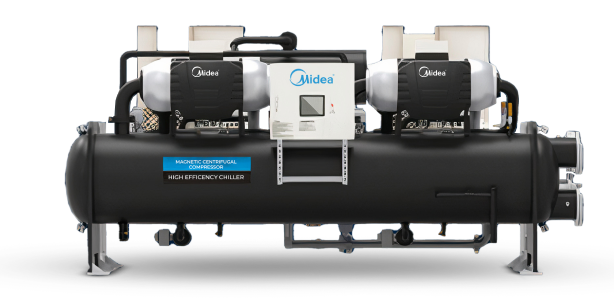
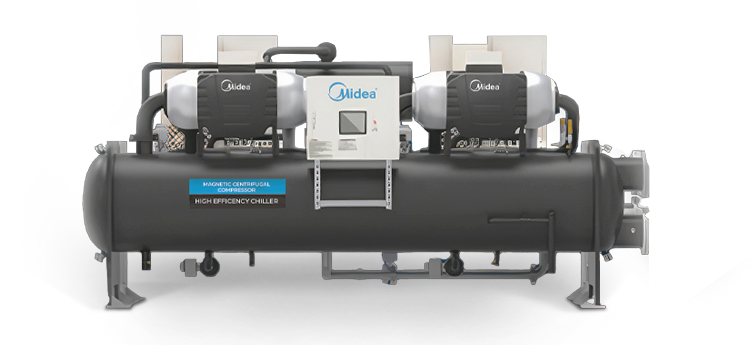
added shadow and new imges to mainpage

diff --git a/app/Innovation/Innovation.module.scss b/app/Innovation/Innovation.module.scss
@@ -5,6 +5,7 @@
    display: flex;
    flex-direction: column;
    position: relative;
+   z-index: 3;
    &__title {
       text-align: center;
       font-size: 36px;
@@ -154,10 +155,6 @@
    animation-duration: 6s;
    color: rgb(110, 0, 133);
    border-radius: 50%;
-   filter: drop-shadow(0px 1px 1px rgb(110, 0, 133))
-   drop-shadow(0px 1px 1px rgb(110, 0, 133))
-   drop-shadow(0px 4px 10px rgb(110, 0, 133))
-   drop-shadow(0px 4px 30px rgb(110, 0, 133))
 }
 .titles {
    position: fixed;
@@ -193,32 +190,28 @@
 }
 @keyframes neonGlow {
    0% {
-      filter: drop-shadow(0px 1px 1px rgb(110, 0, 133))
-   drop-shadow(0px 1px 1px rgb(110, 0, 133))
-   drop-shadow(0px 4px 10px rgb(110, 0, 133))
-   drop-shadow(0px 4px 30px rgb(110, 0, 133));
-   color: rgb(110, 0, 133);
+      filter: drop-shadow(0px 1px 1px rgb(0, 0, 0))
+   drop-shadow(0px 1px 1px rgb(0, 0, 0))
+   drop-shadow(0px 4px 10px rgb(0, 0, 0));
+   color: rgb(0, 0, 0);
    }
    33% {
-      filter: drop-shadow(0px 1px 1px rgb(24, 0, 133))
-      drop-shadow(0px 1px 1px rgb(24, 0, 133))
-      drop-shadow(0px 4px 10px rgb(24, 0, 133))
-      drop-shadow(0px 4px 30px rgb(24, 0, 133));
-      color: rgb(24, 0, 133);
+      filter: drop-shadow(0px 1px 1px rgb(255, 255, 255))
+      drop-shadow(0px 1px 1px rgb(255, 255, 255))
+      drop-shadow(0px 4px 10px rgb(255, 255, 255));
+      color: rgb(158, 158, 158);
    }
    66% {
-      filter: drop-shadow(0px 1px 1px rgb(0, 170, 182))
-      drop-shadow(0px 1px 1px rgb(0, 170, 182))
-      drop-shadow(0px 4px 10px rgb(0, 170, 182))
-      drop-shadow(0px 4px 30px rgb(0, 170, 182));
-      color: rgb(0, 170, 182);
+      filter: drop-shadow(0px 1px 1px rgb(0, 0, 0))
+      drop-shadow(0px 1px 1px rgb(0, 0, 0))
+      drop-shadow(0px 4px 10px rgb(0, 0, 0));
+      color: rgb(0, 0, 0);
    }
    100% {
-      filter: drop-shadow(0px 1px 1px rgb(110, 0, 133))
-      drop-shadow(0px 1px 1px rgb(110, 0, 133))
-      drop-shadow(0px 4px 10px rgb(110, 0, 133))
-      drop-shadow(0px 4px 30px rgb(110, 0, 133));
-      color: rgb(110, 0, 133);
+      filter: drop-shadow(0px 1px 1px rgb(255, 255, 255))
+      drop-shadow(0px 1px 1px rgb(255, 255, 255))
+      drop-shadow(0px 4px 10px rgb(255, 255, 255));
+      color: rgb(255, 255, 255);
    }
 }
 
@@ -254,7 +247,7 @@
 
 @keyframes changeColor {
    0% {
-      color: rgb(133, 28, 219);
+      color: rgb(0, 0, 0);
       opacity: 1;
    }
    100% {

diff --git a/app/Machines/Machines.tsx b/app/Machines/Machines.tsx
@@ -2,6 +2,8 @@ import styles from './Machines.module.scss';
 import magboost from '../../public/img/Innovation/magboost.png';
 import v8 from '../../public/img/Innovation/v8.png';
 import NewestMachines from './NewestMachines';
+import Image from 'next/image';
+import shadowbg from '../../public/img/Innovation/shadow_bg.jpg';
 
 const newestData = [{
    deviceName: 'Magboost',
@@ -12,13 +14,16 @@ const newestData = [{
 {
    deviceName: 'V8',
    image: v8,
-   imageWidth: 350,
-   imageHeight: 364
+   imageWidth: 700,
+   imageHeight: 504
 }]
 
 function Machines() {
 return (
    <section className={styles.machines}>
+      <div className={styles.machines__shadow}>
+         <Image src={shadowbg} alt='' fill={true}></Image>
+      </div>
       {newestData.map((el, idx) => {
          return <NewestMachines key={idx} deviceName={el.deviceName} image={el.image} imageWidth={el.imageWidth} imageHeight={el.imageHeight} />
       })}

diff --git a/app/Machines/NewestMachines.tsx b/app/Machines/NewestMachines.tsx
@@ -18,7 +18,7 @@ function NewestMachines({deviceName, image, imageWidth, imageHeight}: NewestMach
       <Link href='/VRF' className={`${deviceName === 'Magboost' ? styles.machines__newest1 : styles.machines__newest2} ${visibility ? styles.active : ''}`}>
          <p className={`${styles.machines__newest__title} ${deviceName === 'Magboost' ? styles.machines__newest__title1 : styles.machines__newest__title2} ${visibility ? styles.titleActive : ''}`}>{deviceName}</p>
          <div className={styles.machines__container}>
-            <Image src={image} alt='magboost' width={imageWidth} height={imageHeight} />
+            <Image className={styles.t} src={image} alt='magboost' width={imageWidth} height={imageHeight} />
          </div>
       </Link>
    )

diff --git a/app/Machines/Machines.module.scss b/app/Machines/Machines.module.scss
@@ -3,6 +3,15 @@
    padding: 10px;
    display: flex;
    justify-content: space-around;
+   position: relative;
+   &__shadow {
+      position: absolute;
+      left: 0;
+      top: 0;
+      width: 100%;
+      height: 100%;
+      object-fit: cover;
+   }
    &__newest1 {
       opacity: 0;
       transform: translateX(-90%);
@@ -26,6 +35,7 @@
       max-height: 450px;
       display: flex;
       justify-content: center;
+      align-items: center;
       margin: 30px 0 0 0;
       transition: 0.4s;
    }
@@ -78,4 +88,7 @@
    transition-delay: 0.4s;
    transform: translateX(0%);
    opacity: 1;
+}
+.t {
+   
 }

diff --git a/app/Innovation/Innovation.tsx b/app/Innovation/Innovation.tsx
@@ -1,7 +1,7 @@
 "use client"
 import styles from './Innovation.module.scss';
 import kuka from '../../public/img/Innovation/kuka.png';
-import lab from '../../public/img/Innovation/lab.png';
+import lab from '../../public/img/Innovation/lab_new.png';
 import Image from 'next/image';
 import { RootState } from '../Redux/store';
 import { useSelector } from 'react-redux';

diff --git a/app/VRF/VRFMainPage/VRFMain.tsx b/app/VRF/VRFMainPage/VRFMain.tsx
@@ -9,6 +9,9 @@ import { useEffect, useState } from 'react';
 
 
 function VRFMain() {
+   useEffect(() => {
+      window.scrollTo(0,0)
+   }, [])
    const [isView1, setIsView1] = useState(false)
    const [isView2, setIsView2] = useState(false)
    const imageTitleParams = [{

diff --git a/app/Awards/Awards.module.scss b/app/Awards/Awards.module.scss
@@ -1,7 +1,6 @@
 .awards {
-   max-width: 1580px;
-   margin: 200px auto 0 auto;
-   padding: 0 40px;
+   padding: 200px 40px 50px 40px;
+   background: rgb(254,255,250);
    &__title {
       text-align: center;
       font-size: 40px;

diff --git a/app/globals.css b/app/globals.css
@@ -37,7 +37,7 @@ body {
 	-ms-text-size-adjust: 100%;
 	-moz-text-size-adjust: 100%;
 	-webkit-text-size-adjust: 100%;
-	background: #f5f5f5;
+	background-color: rgb(234,235,230);
 }
 input,
 button,

diff --git a/app/Footer/Footer.module.scss b/app/Footer/Footer.module.scss
@@ -1,5 +1,4 @@
 .footer {
-   margin: 60px 0 0 0;
    height: 40vh;
    width: 100%;
    background: #000;
